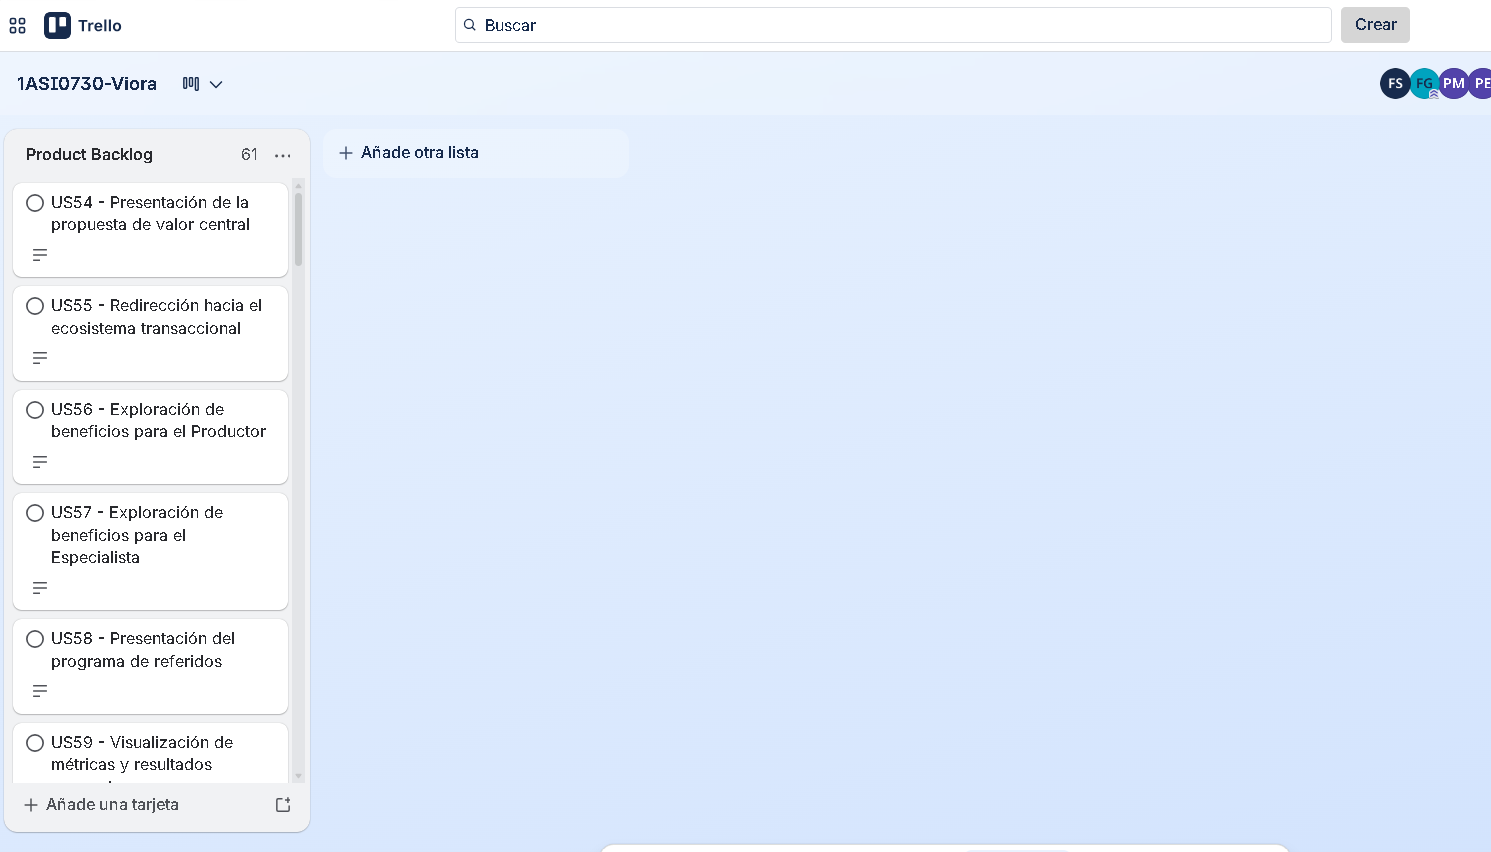
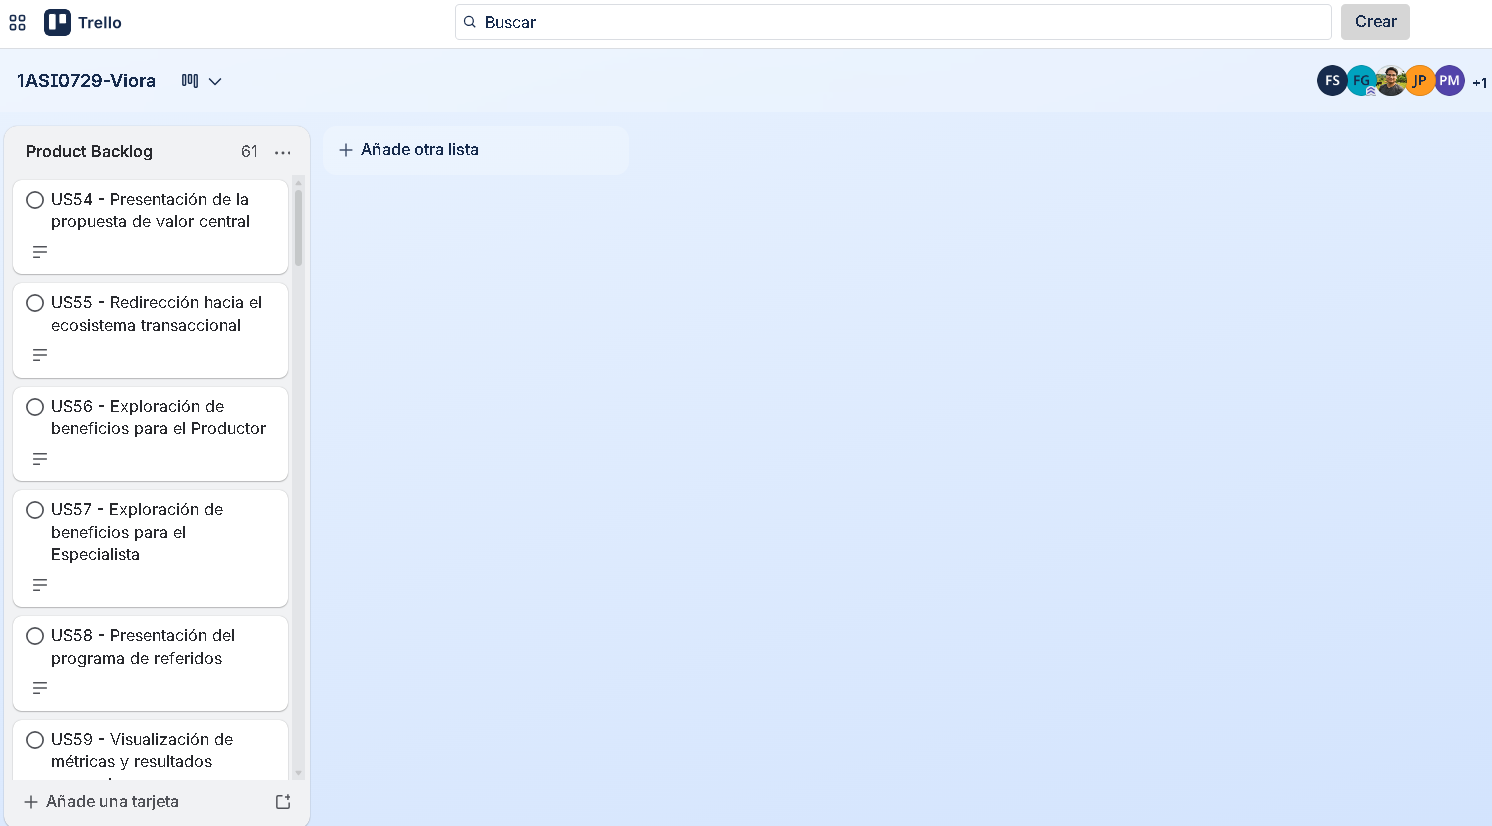
feat(product-backlog): format product backlog and update image.

diff --git a/report/chapters/30-requirements-specification/33-product-backlog.md b/report/chapters/30-requirements-specification/33-product-backlog.md
@@ -2,67 +2,102 @@
 
 | # Orden | User Story Id | Título                                                   | Descripción                                                                                                                                                                                                                                                                     | Story Points (1/2/3/5/8) |
 | ------- | ------------- | -------------------------------------------------------- | ------------------------------------------------------------------------------------------------------------------------------------------------------------------------------------------------------------------------------------------------------------------------------- | ------------------------ |
-|1|US54| Presentación de la propuesta de valor central | Como Visitante, quiero que el sistema comunique cómo los datos ambientales, climáticos y de campo apoyan decisiones preventivas, para entender de inmediato el valor del ecosistema frente a los riesgos del olivar. |2|
-|2|US55| Redirección hacia el ecosistema transaccional | Como Visitante, quiero contar con un acceso directo para iniciar mi experiencia en la plataforma, para transicionar desde el sitio informativo hacia la aplicación web de Viora. |2|
-|3|US56| Exploración de beneficios para el Productor | Como Visitante Productor, quiero visualizar herramientas orientadas al monitoreo y protección del olivar, para evaluar si la plataforma me ayuda a anticipar riesgos de plagas, estrés fenológico y vecería. |2|
-|4|US57| Exploración de beneficios para el Especialista | Como Visitante Especialista, quiero visualizar herramientas orientadas a la prestación de servicios agronómicos, para evaluar si la plataforma puede ampliar mis oportunidades de servicio con productores. |2|
-|5|US58| Presentación del programa de referidos | Como Visitante, quiero conocer cómo funciona el programa de referidos, para comprender los beneficios de invitar nuevos productores y especialistas al ecosistema Viora. |2|
-|6|US59| Visualización de métricas y resultados esperados | Como Visitante cauteloso, quiero conocer métricas de rendimiento esperado y metas de adopción del sistema, para evaluar el valor cuantitativo que la plataforma puede aportar al trabajo en campo. |2|
-|7|US60| Exploración del equipo detrás de la plataforma | Como Visitante cauteloso, quiero conocer quiénes conforman el equipo detrás de Viora, para generar mayor confianza en la autenticidad de la plataforma. |2|
-|8|US61| Visualización de planes de precio | Como Visitante, quiero conocer los planes de precio disponibles para los segmentos de Viora, para evaluar qué opción se ajusta mejor a mis necesidades antes de iniciar mi experiencia en la plataforma. |2|
-|9|US11| Análisis de Tendencia de Vigor Vegetal y Acumulación de Frío | Como Productor Olivarero, quiero consultar el análisis de tendencia que compara la evolución del índice de vigor vegetal (NDVI) frente a las porciones de frío acumulado, pudiendo filtrar la información por parcelas específicas y diferentes rangos de tiempo, para evaluar cómo las condiciones climáticas impactan el desarrollo de la planta a lo largo del tiempo. |5|
-|10|US12| Evaluación Espacial de Vigor y Riesgo por Parcela | Como Productor Olivarero, quiero consultar los indicadores espaciales de una parcela específica, alternando entre mis diferentes áreas de cultivo, para detectar de forma temprana zonas con estrés vegetal. |5|
-|11|US13| Resumen General y Proyección de Cosecha | Como Productor Olivarero, quiero consultar un resumen general con las métricas consolidadas de todas mis parcelas (Salud general, NDVI, Horas de Frío y Proyección de Cosecha) en diferentes periodos de tiempo, para evaluar rápidamente el estado integral de mis cultivos. |3|
-|12|US14| Resumen Meteorológico y Evaluación de Riesgo Climático | Como Productor Olivarero, quiero consultar las condiciones meteorológicas actuales, el pronóstico a corto plazo y la evaluación de anomalías térmicas locales, para anticipar eventos climáticos que puedan afectar el desarrollo de mis olivos. |3|
-|13|US08| Monitoreo de telemetría IoT para decisiones hídricas | Como Productor Olivarero, quiero visualizar la humedad del suelo, la temperatura y la humedad foliar de mis dispositivos IoT, para decidir si debo adelantar un riego preventivo y evitar estrés hídrico en mi parcela. |5|
-|14|US23| Consulta de Alertas Recientes | Como Productor Olivarero, quiero acceder a un listado consolidado con las alertas más recientes de mis parcelas, para estar informado rápidamente de los riesgos que requieren mi atención prioritaria. |3|
-|15|US15| Alerta por frío insuficiente | Como Productor Olivarero, quiero recibir alertas cuando mi parcela no acumule el frío necesario, para reaccionar a tiempo y evitar problemas de floración y cosecha. |1|
-|16|US19| Reporte de sintomatología y evaluación automática | Como Productor Olivarero, quiero registrar los síntomas detectados en mi cultivo mediante indicadores estandarizados, para que el sistema calcule automáticamente la probabilidad de una amenaza biológica sin requerir archivos externos. |2|
-|17|US20| Difusión de alerta preventiva comunitaria | Como Productor Olivarero, quiero recibir avisos preventivos cuando el sistema detecte una amenaza probable cerca de mi campo, para mantener vigilancia activa sobre mis cultivos y prevenir contagios. |3|
-|18|US21| Consulta de zonas con alerta | Como Especialista Fitosanitario, quiero consultar las zonas con amenaza probable generadas por el sistema, para identificar productores vulnerables que podrían requerir mis servicios. |3|
-|19|US22| Filtrado de alertas por gravedad | Como Especialista Fitosanitario, quiero filtrar las alertas según su gravedad y el tipo de problema probable, para enfocar mi oferta de servicios en las emergencias más críticas. |2|
-|20|US24| Identificación de especialistas cercanos | Como Productor Olivarero, quiero identificar especialistas disponibles cerca de mi ubicación, para elegir a uno que pueda atender rápido mi alerta fitosanitaria. |1|
-|21|US25| Solicitud formal de intervención | Como Productor Olivarero, quiero solicitar formalmente la asistencia de un especialista seleccionado, para iniciar el proceso de mitigación de la plaga en mi parcela. |1|
-|22|US26| Evaluación de disponibilidad operativa | Como Especialista Fitosanitario, quiero evaluar los detalles de las solicitudes entrantes, para confirmar si cuento con la capacidad de atender la emergencia antes de un compromiso formal. |2|
-|23|US27| Resolución de la solicitud de intervención | Como Especialista Fitosanitario, quiero aceptar o declinar formalmente un caso de estudio, para formalizar el compromiso técnico o permitir que el productor busque otra alternativa en el sistema. |2|
-|24|US28| Evaluación preliminar de la unidad productiva | Como Especialista Fitosanitario, quiero evaluar la trazabilidad y los datos de la alerta activa de la parcela asignada, para estructurar un plan de acción y una propuesta económica precisos. |3|
-|25|US29| Emisión de propuesta de servicio | Como Especialista Fitosanitario, quiero enviar una propuesta económica y operativa detallada, para que el Productor pueda evaluar las condiciones de mi intervención. |2|
-|26|US30| Resolución de la propuesta de servicio | Como Productor Olivarero, quiero aceptar o declinar la cotización recibida, para formalizar el acuerdo técnico o buscar una nueva alternativa en la red. |2|
-|27|US31| Habilitación de canal de comunicación directo | Como Productor Olivarero, quiero acceder a los datos de contacto directo del Especialista, para coordinar los detalles logísticos de la visita a campo de forma privada. |1|
-|28|US36| Revisión de antecedentes agronómicos en campo | Como Especialista Fitosanitario, quiero acceder al historial de trazabilidad de la parcela durante la visita, para asignar un diagnóstico fundamentado. |2|
-|29|US37| Registro de datos de inspección física | Como Especialista Fitosanitario, quiero documentar los hallazgos biológicos y observaciones levantadas en mi visita presencial, para sustentar técnicamente la receta agrícola que voy a emitir. |3|
-|30|US38| Validación de ventana de aplicación | Como Especialista Fitosanitario, quiero que el sistema valide mi propuesta de tratamiento contra los pronósticos climáticos, para asegurar una ventana de aplicación óptima que evite el lavado o degradación del agrofármaco. |2|
-|31|US39| Emisión de prescripción de agrofármacos | Como Especialista Fitosanitario, quiero generar digitalmente la receta técnica con los insumos y dosis necesarias, para que el Productor cuente con un plan de mitigación formal y ejecutable. |2|
-|32|US07| Delimitación de área productiva | Como Productor Olivarero, quiero delimitar el área geográfica de mi parcela, para habilitar el monitoreo satelital y la vinculación con datos climáticos. |5|
-|33|US16| Plan de fertilización ajustado al clima | Como Productor Olivarero, quiero recibir un plan de fertilización asociado a una alerta de riesgo, para aplicar medidas que ayuden a estabilizar el cultivo frente a la crisis. |3|
-|34|US40| Certificación de aplicación de receta técnica | Como Productor Olivarero, quiero registrar la ejecución en campo de la prescripción emitida por el Asesor Técnico, para certificar inmutablemente la intervención y actualizar el historial de la parcela. |2|
-|35|US17| Certificación de aplicación del plan nutricional | Como Productor Olivarero, quiero registrar la ejecución de la recomendación de nutrición sugerida, para certificar la intervención técnica realizada y mantener la trazabilidad agronómica de mi unidad productiva. |2|
-|36|US41| Consolidación del gasto de intervención | Como Productor Olivarero, quiero asentar los costos de insumos y mano de obra asociados al tratamiento, para mantener la trazabilidad económica y calcular el impacto financiero de la plaga. |2|
-|37|US18| Consolidación del gasto de mitigación climática | Como Productor Olivarero, quiero asentar los costos de intervención asociados a la mitigación climática, para mantener la trazabilidad económica y calcular la rentabilidad de mi unidad productiva tras la crisis. |2|
-|38|US43| Evaluación post-intervención del vigor vegetal | Como Productor Olivarero, quiero que el sistema monitoree la recuperación de la parcela tras la aplicación, para validar la efectividad real de la receta y descartar rebrotes. |3|
-|39|US44| Reporte de impacto fitosanitario post-intervención | Como Productor Olivarero, quiero reportar si la plaga cedió satisfactoriamente tras el periodo de gracia del tratamiento, para dejar constancia de la eficacia clínica de la receta aplicada. |2|
-|40|US42| Cierre formal del servicio y evaluación de calidad | Como Productor Olivarero, quiero dar por concluida la intervención y evaluar el desempeño de mi contraparte, para oficializar el fin de la emergencia y alimentar el sistema de reputación del Ecosistema Viora. |2|
-|41|US45| Registro de disposición de recontratación | Como Productor Olivarero, quiero registrar mi disposición a volver a trabajar con el Asesor Técnico, para influir en mis futuras búsquedas manteniendo la privacidad de mi preferencia. |1|
-|42|US46| Publicación de caso de éxito profesional | Como Asesor Técnico, quiero compartir las intervenciones validadas como exitosas por el Productor, para reforzar mi presencia profesional y mostrar mi trabajo en el Ecosistema. |2|
-|43|US32| Emisión de reporte por inconducta profesional | Como usuario de Viora, quiero registrar una denuncia formal sobre infracciones éticas o inasistencias de otro actor, para alertar al sistema sobre comportamientos que vulneran los acuerdos del ecosistema. |2|
-|44|US33| Evaluación y penalización autónoma | Como usuario del ecosistema Viora, quiero que el sistema evalúe los reportes y asigne penalizaciones ocultas de forma autónoma, para asegurar que las inconductas sean sancionadas objetivamente sin requerir intervención manual. |2|
-|45|US34| Suspensión temporal preventiva | Como usuario de Viora, quiero que el sistema suspenda temporalmente a los usuarios con varias faltas, para protegerme de comportamientos recientes problemáticos. |2|
-|46|US35| Expulsión definitiva de usuarios reincidentes | Como usuario de Viora, quiero que el sistema expulse a los usuarios reincidentes, para interactuar en una plataforma limpia de comportamientos abusivos. |2|
-|47|US10| Gestión de estado de disponibilidad | Como Especialista Fitosanitario, quiero gestionar mi estado de disponibilidad operativa, para controlar mi carga de trabajo y evitar solicitudes inatendibles. |1|
-|48|US09| Publicación de perfil profesional | Como Especialista en Control de Plagas Agrícolas, quiero publicar mi perfil profesional con experiencia y contacto, para ser visible en la plataforma y recibir alertas de parcelas en riesgo. |2|
-|49|US04| Bienvenida inicial según rol | Como usuario recién registrado (Productor o Especialista), quiero ver una bienvenida que destaque lo que puedo hacer según mi rol, para comprender rápidamente el valor de la plataforma y continuar con mi configuración inicial. |2|
-|50|US51| Pago de la suscripción | Como usuario del Ecosistema Viora, quiero registrar mi método de pago para abonar mi suscripción, para asegurar mi acceso continuo a las herramientas de la plataforma. |5|
-|51|US52| Renovación automática de la suscripción | Como usuario del Ecosistema Viora, quiero que el sistema gestione automáticamente los periodos de mi plan, para mantener mi servicio activo sin requerir renovaciones manuales periódicas. |5|
-|52|US53| Cancelación de servicio y emisión de devoluciones | Como usuario del Ecosistema Viora, quiero cancelar mi suscripción y procesar devoluciones si aplican, para finalizar mi relación comercial sin fricciones según la política de la plataforma. |3|
-|53|US48| Generación de enlace de invitación | Como usuario del Ecosistema Viora, quiero generar un enlace de invitación único y rastreable, para compartirlo con otros agricultores o asesores y facilitar su ingreso al ecosistema. |3|
-|54|US49| Registro de cuenta mediante enlace de invitación | Como usuario nuevo, quiero registrarme en la plataforma utilizando un enlace de invitación, para que mi ingreso quede vinculado al usuario que me compartió el acceso. |3|
-|55|US50| Registro del origen de invitación | Como usuario del Ecosistema Viora, quiero que el sistema registre si un nuevo usuario llegó por mi enlace, para medir el alcance de mis invitaciones sin depender de confirmaciones manuales. |5|
-|56|US03| Registro de cuenta por tipo de perfil | Como usuario nuevo, quiero registrar mi cuenta seleccionando mi rol (Productor o Especialista), para acceder a las herramientas específicas de mi perfil profesional. |3|
-|57|US01| Acceso a la cuenta según rol | Como usuario registrado, quiero ingresar mis datos de acceso, para entrar al espacio que corresponde a mi rol, ya sea Productor o Especialista. |2|
-|58|US02| Recuperación de acceso por correo | Como usuario registrado (Productor o Especialista), quiero solicitar el restablecimiento de mi contraseña mediante mi correo electrónico, para recuperar el acceso a mi cuenta en caso de olvido. |3|
-|59|US47| Actualización de credenciales de seguridad | Como usuario del Ecosistema Viora, quiero actualizar mi contraseña de acceso desde mi perfil autenticado, para mantener la integridad y seguridad de mi cuenta ante posibles vulneraciones. |2|
-|60|US05| Cierre de sesión seguro | Como usuario autenticado, quiero finalizar mi sesión activa en el sistema, para garantizar la seguridad de mi cuenta y evitar accesos no autorizados en dispositivos compartidos. |1|
-|61|US06| Actualización de información básica | Como usuario registrado, quiero gestionar mis datos básicos de contacto (nombre, teléfono), para mantener mi información actualizada y facilitar la comunicación operativa. |2|
+| 1 | US54 | Presentación de la propuesta de valor central | Como Visitante, quiero que el sistema comunique cómo los datos ambientales, climáticos y de campo apoyan decisiones preventivas, para entender de inmediato el valor del ecosistema frente a los riesgos del olivar. | 2 |
+| 2 | US55 | Redirección hacia el ecosistema transaccional | Como Visitante, quiero contar con un acceso directo para iniciar mi experiencia en la plataforma, para transicionar desde el sitio informativo hacia la aplicación web de Viora. | 2 |
+| 3 | US56 | Exploración de beneficios para el Productor | Como Visitante Productor, quiero visualizar herramientas orientadas al monitoreo y protección del olivar, para evaluar si la plataforma me ayuda a anticipar riesgos de plagas, estrés fenológico y vecería. | 2 |
+| 4 | US57 | Exploración de beneficios para el Especialista | Como Visitante Especialista, quiero visualizar herramientas orientadas a la prestación de servicios agronómicos, para evaluar si la plataforma puede ampliar mis oportunidades de servicio con productores. | 2 |
+| 5 | US58 | Presentación del programa de referidos | Como Visitante, quiero conocer cómo funciona el programa de referidos, para comprender los beneficios de invitar nuevos productores y especialistas al ecosistema Viora. | 2 |
+| 6 | US59 | Visualización de métricas y resultados esperados | Como Visitante cauteloso, quiero conocer métricas de rendimiento esperado y metas de adopción del sistema, para evaluar el valor cuantitativo que la plataforma puede aportar al trabajo en campo. | 2 |
+| 7 | US60 | Exploración del equipo detrás de la plataforma | Como Visitante cauteloso, quiero conocer quiénes conforman el equipo detrás de Viora, para generar mayor confianza en la autenticidad de la plataforma. | 2 |
+| 8 | US61 | Visualización de planes de precio | Como Visitante, quiero conocer los planes de precio disponibles para los segmentos de Viora, para evaluar qué opción se ajusta mejor a mis necesidades antes de iniciar mi experiencia en la plataforma. | 2 |
+| 9 | US11 | Análisis de Tendencia de Vigor Vegetal y Acumulación de Frío | Como Productor Olivarero, quiero consultar el análisis de tendencia que compara la evolución del índice de vigor vegetal (NDVI) frente a las porciones de frío acumulado, pudiendo filtrar la información por parcelas específicas y diferentes rangos de tiempo, para evaluar cómo las condiciones climáticas impactan el desarrollo de la planta a lo largo del tiempo. | 5 |
+| 10 | US12 | Evaluación Espacial de Vigor y Riesgo por Parcela | Como Productor Olivarero, quiero consultar los indicadores espaciales de una parcela específica, alternando entre mis diferentes áreas de cultivo, para detectar de forma temprana zonas con estrés vegetal. | 5 |
+| 11 | US13 | Resumen General y Proyección de Cosecha | Como Productor Olivarero, quiero consultar un resumen general con las métricas consolidadas de todas mis parcelas (Salud general, NDVI, Horas de Frío y Proyección de Cosecha) en diferentes periodos de tiempo, para evaluar rápidamente el estado integral de mis cultivos. | 3 |
+| 12 | US14 | Resumen Meteorológico y Evaluación de Riesgo Climático | Como Productor Olivarero, quiero consultar las condiciones meteorológicas actuales, el pronóstico a corto plazo y la evaluación de anomalías térmicas locales, para anticipar eventos climáticos que puedan afectar el desarrollo de mis olivos. | 3 |
+| 13 | US08 | Monitoreo de telemetría IoT para decisiones hídricas | Como Productor Olivarero, quiero visualizar la humedad del suelo, la temperatura y la humedad foliar de mis dispositivos IoT, para decidir si debo adelantar un riego preventivo y evitar estrés hídrico en mi parcela. | 5 |
+| 14 | US23 | Consulta de Alertas Recientes | Como Productor Olivarero, quiero acceder a un listado consolidado con las alertas más recientes de mis parcelas, para estar informado rápidamente de los riesgos que requieren mi atención prioritaria. | 3 |
+| 15 | TS33 | Implementar Estrategia de Nomenclatura Snake_Case y Pluralización | Como Ingeniero de Plataforma Core, quiero configurar una estrategia de nomenclatura física en el ORM, para automatizar la conversión de entidades camelCase a snake_case y pluralizar las tablas en la base de datos sin anotaciones manuales. | 1 |
+| 16 | TS34 | Centralizar el Manejo Global de Excepciones e Internacionalización | Como Ingeniero de Plataforma Core, quiero implementar un manejador global de excepciones con soporte de internacionalización, para estandarizar las respuestas HTTP de error y mostrar mensajes localizados sin exponer trazas internas del sistema. | 1 |
+| 17 | TS35 | Implementar Patrón Result para Control de Flujo Funcional | Como Ingeniero de Plataforma Core, quiero crear un contenedor genérico `Result<T, E>`, para gestionar operaciones de éxito y fallo de manera explícita sin depender del lanzamiento de excepciones para el control de flujo. | 1 |
+| 18 | TS08 | Registrar nueva parcela | Como desarrollador frontend, quiero enviar las coordenadas geoespacialmente delimitadas a la API, para implementar la creación de nuevas unidades de cultivo en el ecosistema. | 2 |
+| 19 | TS09 | Listar parcelas por usuario | Como desarrollador frontend, quiero solicitar a la API el listado de parcelas asociadas a un {userId} provisto como parámetro de consulta, para implementar la vista del inventario de lotes en la aplicación. | 1 |
+| 20 | TS10 | Consultar y editar parcela | Como desarrollador frontend, quiero solicitar y enviar los datos modificados de una parcela a la API, para implementar la vista de detalle y la actualización de sus límites geoespaciales o información general en el ecosistema. | 2 |
+| 21 | TS11 | Eliminar parcela | Como desarrollador frontend, quiero solicitar a la API la eliminación de una parcela mediante su ID, para implementar la remoción de unidades de cultivo que ya no están activas o fueron registradas por error. | 2 |
+| 22 | TS12 | Listar dispositivos IoT por parcela | Como desarrollador frontend, quiero solicitar a la API los sensores vinculados a un {plotId}, para implementar el panel de telemetría hídrica y foliar en tiempo real. | 1 |
+| 23 | TS13 | Crear registro de dispositivo IoT | Como desarrollador frontend, quiero enviar la configuración de un hardware a la API, para implementar los formularios reactivos de emparejamiento de sensores a una parcela. | 2 |
+| 24 | TS14 | Editar dispositivo IoT | Como desarrollador frontend, quiero enviar los datos modificados de un dispositivo IoT a la API, para implementar la edición y actualización de la configuración de los sensores de una parcela. | 2 |
+| 25 | TS15 | Eliminar dispositivo IoT | Como desarrollador frontend, quiero solicitar a la API la eliminación de un dispositivo IoT por su ID, para implementar la desvinculación definitiva de los sensores de una parcela. | 2 |
+| 26 | US15 | Alerta por frío insuficiente | Como Productor Olivarero, quiero recibir alertas cuando mi parcela no acumule el frío necesario, para reaccionar a tiempo y evitar problemas de floración y cosecha. | 1 |
+| 27 | TS16 | Obtener resumen general de monitoreo y KPIs por usuario | Como desarrollador frontend, quiero solicitar a la API los indicadores agregados del sistema de un usuario específico, para implementar las tarjetas de KPIs de salud global, acumulación de frío y proyecciones de rendimiento. | 2 |
+| 28 | TS17 | Obtener tendencias agrometeorológicas | Como desarrollador frontend, quiero consultar a la API las series de datos temporales agrometeorológicas, para implementar los gráficos lineales comparativos de NDVI y porciones de frío filtrados de forma global o por lote. | 5 |
+| 29 | US19 | Reporte de sintomatología y evaluación automática | Como Productor Olivarero, quiero registrar los síntomas detectados en mi cultivo mediante indicadores estandarizados, para que el sistema calcule automáticamente la probabilidad de una amenaza biológica sin requerir archivos externos. | 2 |
+| 30 | TS18 | Crear alerta preventiva (Reporte de síntomas) | Como desarrollador frontend, quiero enviar un reporte estructurado de anomalías en planta a la API, para implementar la funcionalidad de notificación de síntomas y cálculo predictivo automático de focos de infección. | 2 |
+| 31 | US20 | Difusión de alerta preventiva comunitaria | Como Productor Olivarero, quiero recibir avisos preventivos cuando el sistema detecte una amenaza probable cerca de mi campo, para mantener vigilancia activa sobre mis cultivos y prevenir contagios. | 3 |
+| 32 | TS19 | Listar alertas epidemiológicas zonales | Como desarrollador frontend, quiero solicitar a la API las alertas de riesgos biológicos filtradas por su estado de gravedad, para implementar el radar georreferenciado de casos activos en la zona de influencia de los especialistas. | 2 |
+| 33 | US21 | Consulta de zonas con alerta | Como Especialista Fitosanitario, quiero consultar las zonas con amenaza probable generadas por el sistema, para identificar productores vulnerables que podrían requerir mis servicios. | 3 |
+| 34 | US22 | Filtrado de alertas por gravedad | Como Especialista Fitosanitario, quiero filtrar las alertas según su gravedad y el tipo de problema probable, para enfocar mi oferta de servicios en las emergencias más críticas. | 2 |
+| 35 | US24 | Identificación de especialistas cercanos | Como Productor Olivarero, quiero identificar especialistas disponibles cerca de mi ubicación, para elegir a uno que pueda atender rápido mi alerta fitosanitaria. | 1 |
+| 36 | TS20 | Crear solicitud de intervención técnica | Como desarrollador frontend, quiero enviar a la API la asignación de un especialista para una alerta fitosanitaria, para implementar la apertura formal de un caso de asistencia técnica en campo. | 2 |
+| 37 | US25 | Solicitud formal de intervención | Como Productor Olivarero, quiero solicitar formalmente la asistencia de un especialista seleccionado, para iniciar el proceso de mitigación de la plaga en mi parcela. | 1 |
+| 38 | US26 | Evaluación de disponibilidad operativa | Como Especialista Fitosanitario, quiero evaluar los detalles de las solicitudes entrantes, para confirmar si cuento con la capacidad de atender la emergencia antes de un compromiso formal. | 2 |
+| 39 | US27 | Resolución de la solicitud de intervención | Como Especialista Fitosanitario, quiero aceptar o declinar formalmente un caso de estudio, para formalizar el compromiso técnico o permitir que el productor busque otra alternativa en el sistema. | 2 |
+| 40 | TS21 | Consultar y actualizar estado de intervención | Como desarrollador frontend, quiero solicitar y enviar el cambio de estado de una solicitud a la API, para implementar la visualización del caso y las acciones de aceptación o declinación por parte de los especialistas. | 2 |
+| 41 | US28 | Evaluación preliminar de la unidad productiva | Como Especialista Fitosanitario, quiero evaluar la trazabilidad y los datos de la alerta activa de la parcela asignada, para estructurar un plan de acción y una propuesta económica precisos. | 3 |
+| 42 | US29 | Emisión de propuesta de servicio | Como Especialista Fitosanitario, quiero enviar una propuesta económica y operativa detallada, para que el Productor pueda evaluar las condiciones de mi intervención. | 2 |
+| 43 | TS22 | Formalizar propuesta de servicio | Como desarrollador frontend, quiero enviar los términos del plan operativo y el presupuesto a la API, para implementar la emisión de la cotización formal del servicio técnico. | 2 |
+| 44 | US30 | Resolución de la propuesta de servicio | Como Productor Olivarero, quiero aceptar o declinar la cotización recibida, para formalizar el acuerdo técnico o buscar una nueva alternativa en la red. | 2 |
+| 45 | US31 | Habilitación de canal de comunicación directo | Como Productor Olivarero, quiero acceder a los datos de contacto directo del Especialista, para coordinar los detalles logísticos de la visita a campo de forma privada. | 1 |
+| 46 | TS23 | Obtener datos de contacto directo protegidos | Como desarrollador frontend, quiero solicitar a la API los canales directos de comunicación de las partes, para implementar la mensajería interna privada solo si existe un acuerdo formalizado. | 2 |
+| 47 | US36 | Revisión de antecedentes agronómicos en campo | Como Especialista Fitosanitario, quiero acceder al historial de trazabilidad de la parcela durante la visita, para asignar un diagnóstico fundamentado. | 2 |
+| 48 | US37 | Registro de datos de inspección física | Como Especialista Fitosanitario, quiero documentar los hallazgos biológicos y observaciones levantadas en mi visita presencial, para sustentar técnicamente la receta agrícola que voy a emitir. | 3 |
+| 49 | TS24 | Registrar hallazgos de inspección física | Como desarrollador frontend, quiero enviar las observaciones clínicas recolectadas presencialmente a la API, para implementar la documentación del diagnóstico agronómico en campo. | 3 |
+| 50 | US38 | Validación de ventana de aplicación | Como Especialista Fitosanitario, quiero que el sistema valide mi propuesta de tratamiento contra los pronósticos climáticos, para asegurar una ventana de aplicación óptima que evite el lavado o degradación del agrofármaco. | 2 |
+| 51 | US39 | Emisión de prescripción de agrofármacos | Como Especialista Fitosanitario, quiero generar digitalmente la receta técnica con los insumos y dosis necesarias, para que el Productor cuente con un plan de mitigación formal y ejecutable. | 2 |
+| 52 | TS25 | Emitir receta técnica fitosanitaria | Como desarrollador frontend, quiero enviar la dosificación de agrofármacos a la API, para implementar la generación digital de la receta técnica validada contra alertas climáticas. | 2 |
+| 53 | US07 | Delimitación de área productiva | Como Productor Olivarero, quiero delimitar el área geográfica de mi parcela, para habilitar el monitoreo satelital y la vinculación con datos climáticos. | 5 |
+| 54 | US16 | Plan de fertilización ajustado al clima | Como Productor Olivarero, quiero recibir un plan de fertilización asociado a una alerta de riesgo, para aplicar medidas que ayuden a estabilizar el cultivo frente a la crisis. | 3 |
+| 55 | US40 | Certificación de aplicación de receta técnica | Como Productor Olivarero, quiero registrar la ejecución en campo de la prescripción emitida por el Especialista Fitosanitario, para certificar inmutablemente la intervención y actualizar el historial de la parcela. | 2 |
+| 56 | TS26 | Certificar ejecución de tratamientos en campo | Como desarrollador frontend, quiero enviar la declaración de aplicación a la API, para implementar la certificación inmutable que actualiza el historial operativo del lote. | 2 |
+| 57 | US17 | Certificación de aplicación del plan de mitigación | Como Productor Olivarero, quiero registrar la ejecución de las recomendaciones agronómicas sugeridas, para certificar la intervención técnica realizada y mantener la trazabilidad agronómica de mi unidad productiva. | 2 |
+| 58 | US41 | Consolidación del gasto de intervención | Como Productor Olivarero, quiero asentar los costos de insumos y mano de obra asociados al tratamiento, para mantener la trazabilidad económica y calcular el impacto financiero de la plaga. | 2 |
+| 59 | TS27 | Consolidar gastos operativos de mitigación | Como desarrollador frontend, quiero enviar los comprobantes de costos a la API, para implementar el módulo financiero que evalúa el impacto económico e impacta la rentabilidad de la campaña. | 2 |
+| 60 | US18 | Consolidación del gasto de mitigación climática | Como Productor Olivarero, quiero asentar los costos de intervención asociados a la mitigación climática, para mantener la trazabilidad económica y calcular la rentabilidad de mi unidad productiva tras la crisis. | 2 |
+| 61 | US43 | Evaluación post-intervención del vigor vegetal | Como Productor Olivarero, quiero que el sistema monitoree la recuperación de la parcela tras la aplicación, para validar la efectividad real de la receta y descartar rebrotes. | 3 |
+| 62 | US44 | Reporte de impacto fitosanitario post-intervención | Como Productor Olivarero, quiero reportar si la plaga cedió satisfactoriamente tras el periodo de gracia del tratamiento, para dejar constancia de la eficacia clínica de la receta aplicada. | 2 |
+| 63 | US42 | Cierre formal del servicio y evaluación de calidad | Como Productor Olivarero, quiero dar por concluida la intervención y evaluar el desempeño de mi contraparte, para oficializar el fin de la emergencia y alimentar el sistema de reputación del Ecosistema Viora. | 2 |
+| 64 | TS28 | Cerrar intervención y evaluar servicio público | Como desarrollador frontend, quiero enviar el informe de efectividad clínica y la valoración del técnico a la API, para implementar la finalización del flujo del servicio y el recuento de la reputación profesional. | 2 |
+| 65 | US45 | Registro de disposición de recontratación | Como Productor Olivarero, quiero registrar mi disposición a volver a trabajar con el Especialista Fitosanitario, para influir en mis futuras búsquedas manteniendo la privacidad de mi preferencia. | 1 |
+| 66 | US46 | Publicación de caso de éxito profesional | Como Especialista Fitosanitario, quiero compartir las intervenciones validadas como exitosas por el Productor, para reforzar mi presencia profesional y mostrar mi trabajo en el Ecosistema. | 2 |
+| 67 | US32 | Emisión de reporte por inconducta profesional | Como usuario de Viora, quiero registrar una denuncia formal sobre infracciones éticas o inasistencias de otro actor, para alertar al sistema sobre comportamientos que vulneran los acuerdos del ecosistema. | 2 |
+| 68 | TS29 | Emitir reporte por inconducta contractual o falta ética | Como desarrollador frontend, quiero enviar una denuncia con evidencias a la API, para implementar el sistema de quejas que audita de forma autónoma el orden comunitario. | 1 |
+| 69 | US33 | Evaluación y penalización autónoma | Como usuario del ecosistema Viora, quiero que el sistema evalúe los reportes y asigne penalizaciones ocultas de forma autónoma, para asegurar que las inconductas sean sancionadas objetivamente sin requerir intervención manual. | 2 |
+| 70 | TS30 | Consultar estado disciplinario del perfil | Como desarrollador frontend, quiero solicitar a la API el estado reglamentario de un usuario, para implementar vistas de restricción o bloqueos lógicos en el marketplace si el perfil está suspendido. | 2 |
+| 71 | US34 | Suspensión temporal preventiva | Como usuario de Viora, quiero que el sistema suspenda temporalmente a los usuarios con varias faltas, para protegerme de comportamientos recientes problemáticos. | 2 |
+| 72 | US35 | Expulsión definitiva de usuarios reincidentes | Como usuario de Viora, quiero que el sistema expulse a los usuarios reincidentes, para interactuar en una plataforma limpia de comportamientos abusivos. | 2 |
+| 73 | TS06 | Consultar y modificar perfil de usuario | Como desarrollador frontend, quiero consultar y enviar actualizaciones parciales del perfil a la API, para implementar la vista de configuración y el cambio de estado de disponibilidad del especialista. | 2 |
+| 74 | US10 | Gestión de estado de disponibilidad | Como Especialista Fitosanitario, quiero gestionar mi estado de disponibilidad operativa, para controlar mi carga de trabajo y evitar solicitudes inatendibles. | 1 |
+| 75 | US09 | Publicación de perfil profesional | Como Especialista Fitosanitario, quiero publicar mi perfil profesional con experiencia y contacto, para ser visible en la plataforma y recibir alertas de parcelas en riesgo. | 2 |
+| 76 | TS05 | Crear cuenta de usuario por rol | Como desarrollador frontend, quiero enviar los datos de creación a la API, para implementar el registro de cuentas segregadas por el tipo de perfil seleccionado. | 2 |
+| 77 | TS01 | Autenticación de usuarios e inicio de sesión seguro | Como desarrollador frontend, quiero enviar las credenciales de acceso a la API, para implementar la funcionalidad de inicio de sesión y obtener un token de acceso seguro para el usuario. | 2 |
+| 78 | TS02 | Solicitar recuperación de acceso | Como desarrollador frontend, quiero solicitar a la API la recuperación de contraseña enviando un correo electrónico, para implementar el flujo de restablecimiento autónomo de cuenta. | 2 |
+| 79 | TS03 | Validar código de recuperación de contraseña | Como desarrollador frontend, quiero enviar el código de verificación recibido a la API, para implementar la validación del PIN o token de restablecimiento y confirmar su vigencia antes de permitir el cambio de contraseña. | 2 |
+| 80 | TS04 | Restablecer o actualizar credenciales de seguridad | Como desarrollador frontend, quiero enviar la nueva contraseña junto con el token de autorización a la API, para implementar el cambio definitivo de credenciales de seguridad de una cuenta. | 2 |
+| 81 | TS07 | Generar enlace de invitación y referidos | Como desarrollador frontend, quiero solicitar a la API la creación de un identificador de referidos único, para implementar el programa de invitaciones en la plataforma. | 2 |
+| 82 | US04 | Bienvenida inicial según rol | Como usuario recién registrado (Productor o Especialista), quiero ver una bienvenida que destaque lo que puedo hacer según mi rol, para comprender rápidamente el valor de la plataforma y continuar con mi configuración inicial. | 2 |
+| 83 | TS31 | Procesar pago de suscripción y vigencia de planes | Como desarrollador frontend, quiero enviar la confirmación de la pasarela de cobros a la API, para implementar la activación inmediata o renovación de los privilegios avanzados de monitoreo. | 3 |
+| 84 | TS32 | Cancelar renovación automática de suscripción | Como desarrollador frontend, quiero enviar la orden de cancelación a la API, para implementar el botón de baja del plan recurrente sin fricciones operativas. | 2 |
+| 85 | US51 | Pago de la suscripción | Como usuario del Ecosistema Viora, quiero registrar mi método de pago para abonar mi suscripción, para asegurar mi acceso continuo a las herramientas de la plataforma. | 5 |
+| 86 | US52 | Renovación automática de la suscripción | Como usuario del Ecosistema Viora, quiero que el sistema gestione automáticamente los periodos de mi plan, para mantener mi servicio activo sin requerir renovaciones manuales periódicas. | 5 |
+| 87 | US53 | Cancelación de servicio y emisión de devoluciones | Como usuario del Ecosistema Viora, quiero cancelar mi suscripción y procesar devoluciones si aplican, para finalizar mi relación comercial sin fricciones según la política de la plataforma. | 3 |
+| 88 | US48 | Generación de enlace de invitación | Como usuario del Ecosistema Viora, quiero generar un enlace de invitación único y rastreable, para compartirlo con otros agricultores o asesores y facilitar su ingreso al ecosistema. | 3 |
+| 89 | US49 | Registro de cuenta mediante enlace de invitación | Como usuario nuevo, quiero registrarme en la plataforma utilizando un enlace de invitación, para que mi ingreso quede vinculado al usuario que me compartió el acceso. | 3 |
+| 90 | US50 | Registro del origen de invitación | Como usuario del Ecosistema Viora, quiero que el sistema registre si un nuevo usuario llegó por mi enlace, para medir el alcance de mis invitaciones sin depender de confirmaciones manuales. | 5 |
+| 91 | US03 | Registro de cuenta por tipo de perfil | Como usuario nuevo, quiero registrar mi cuenta seleccionando mi rol (Productor o Especialista), para acceder a las herramientas específicas de mi perfil profesional. | 3 |
+| 92 | US01 | Acceso a la cuenta según rol | Como usuario registrado, quiero ingresar mis datos de acceso, para entrar al espacio que corresponde a mi rol, ya sea Productor o Especialista. | 2 |
+| 93 | US02 | Recuperación de acceso por correo | Como usuario registrado (Productor o Especialista), quiero solicitar el restablecimiento de mi contraseña mediante mi correo electrónico, para recuperar el acceso a mi cuenta en caso de olvido. | 3 |
+| 94 | US47 | Actualización de credenciales de seguridad | Como usuario del Ecosistema Viora, quiero actualizar mi contraseña de acceso desde mi perfil autenticado, para mantener la integridad y seguridad de mi cuenta ante posibles vulneraciones. | 2 |
+| 95 | US05 | Cierre de sesión seguro | Como usuario autenticado, quiero finalizar mi sesión activa en el sistema, para garantizar la seguridad de mi cuenta y evitar accesos no autorizados en dispositivos compartidos. | 1 |
+| 96 | US06 | Actualización de información básica | Como usuario registrado, quiero gestionar mis datos básicos de contacto (nombre, teléfono), para mantener mi información actualizada y facilitar la comunicación operativa. | 2 |
 
 <br>
 